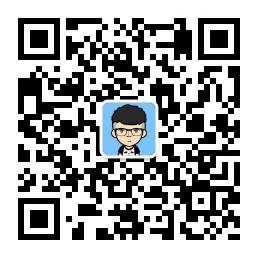
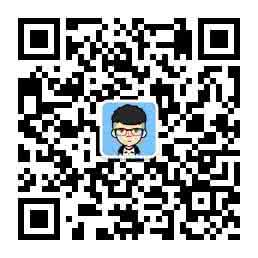
change image

diff --git a/index.md b/index.md
@@ -6,7 +6,7 @@ layout: default
   <div class="index-wrapper">
     <div class="aside">
       <div class="info-card">
-        <img class="logo" src="logo.JPG" alt="logo" width="65px" height="65px"/>
+        <img class="logo" src="logo.jpg" alt="logo" width="65px" height="65px"/>
         <h1>Lijaha</h1>
         <a href="http://www.jianshu.com/u/bb3bbe79b2a1" target="_blank"><img src="./images/jianshu.png" alt="jianshu" width="25"/></a>
         <a href="javascript:void(0)" onclick="show()"><img src="./images/wechat.png" alt="wechat" width="25" onclick="show()"/></a>
